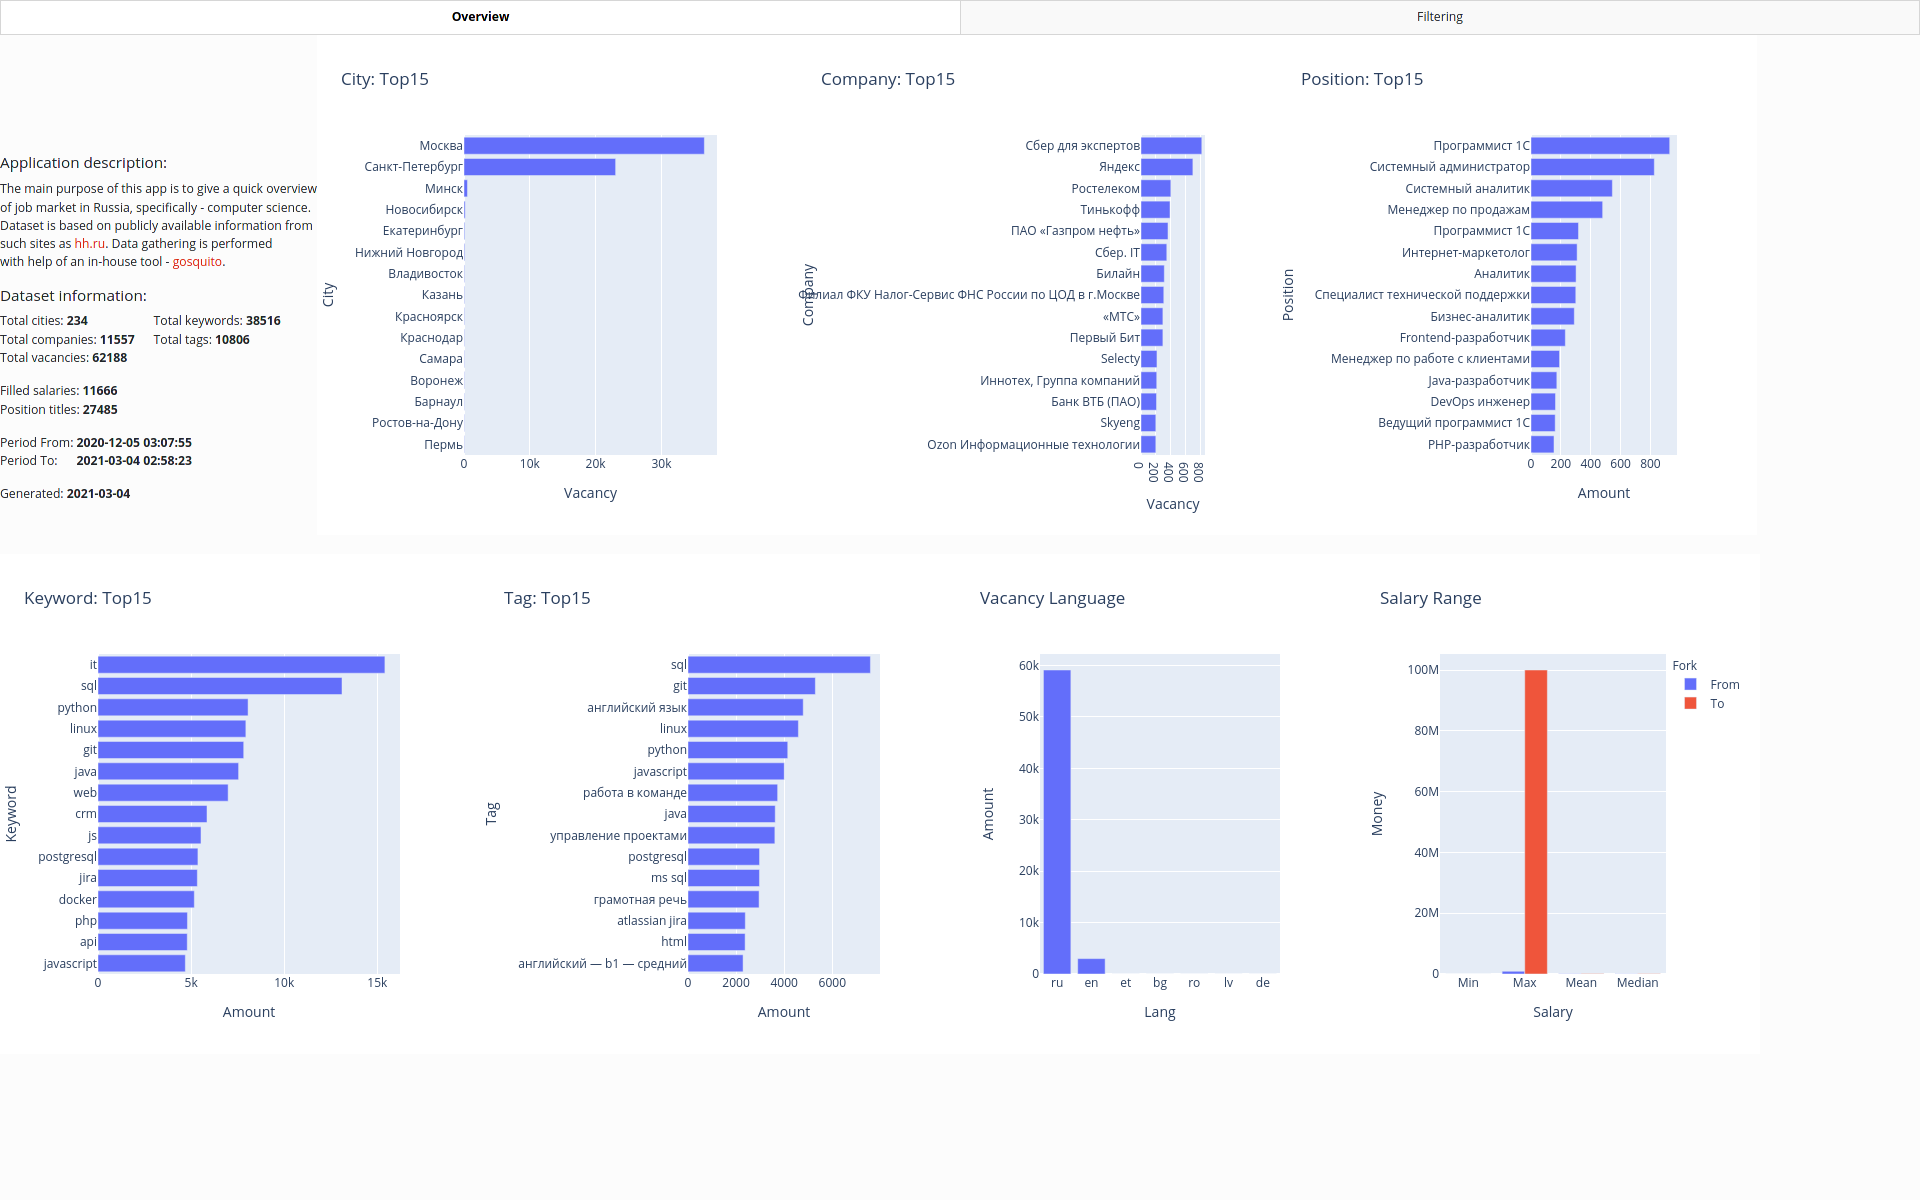
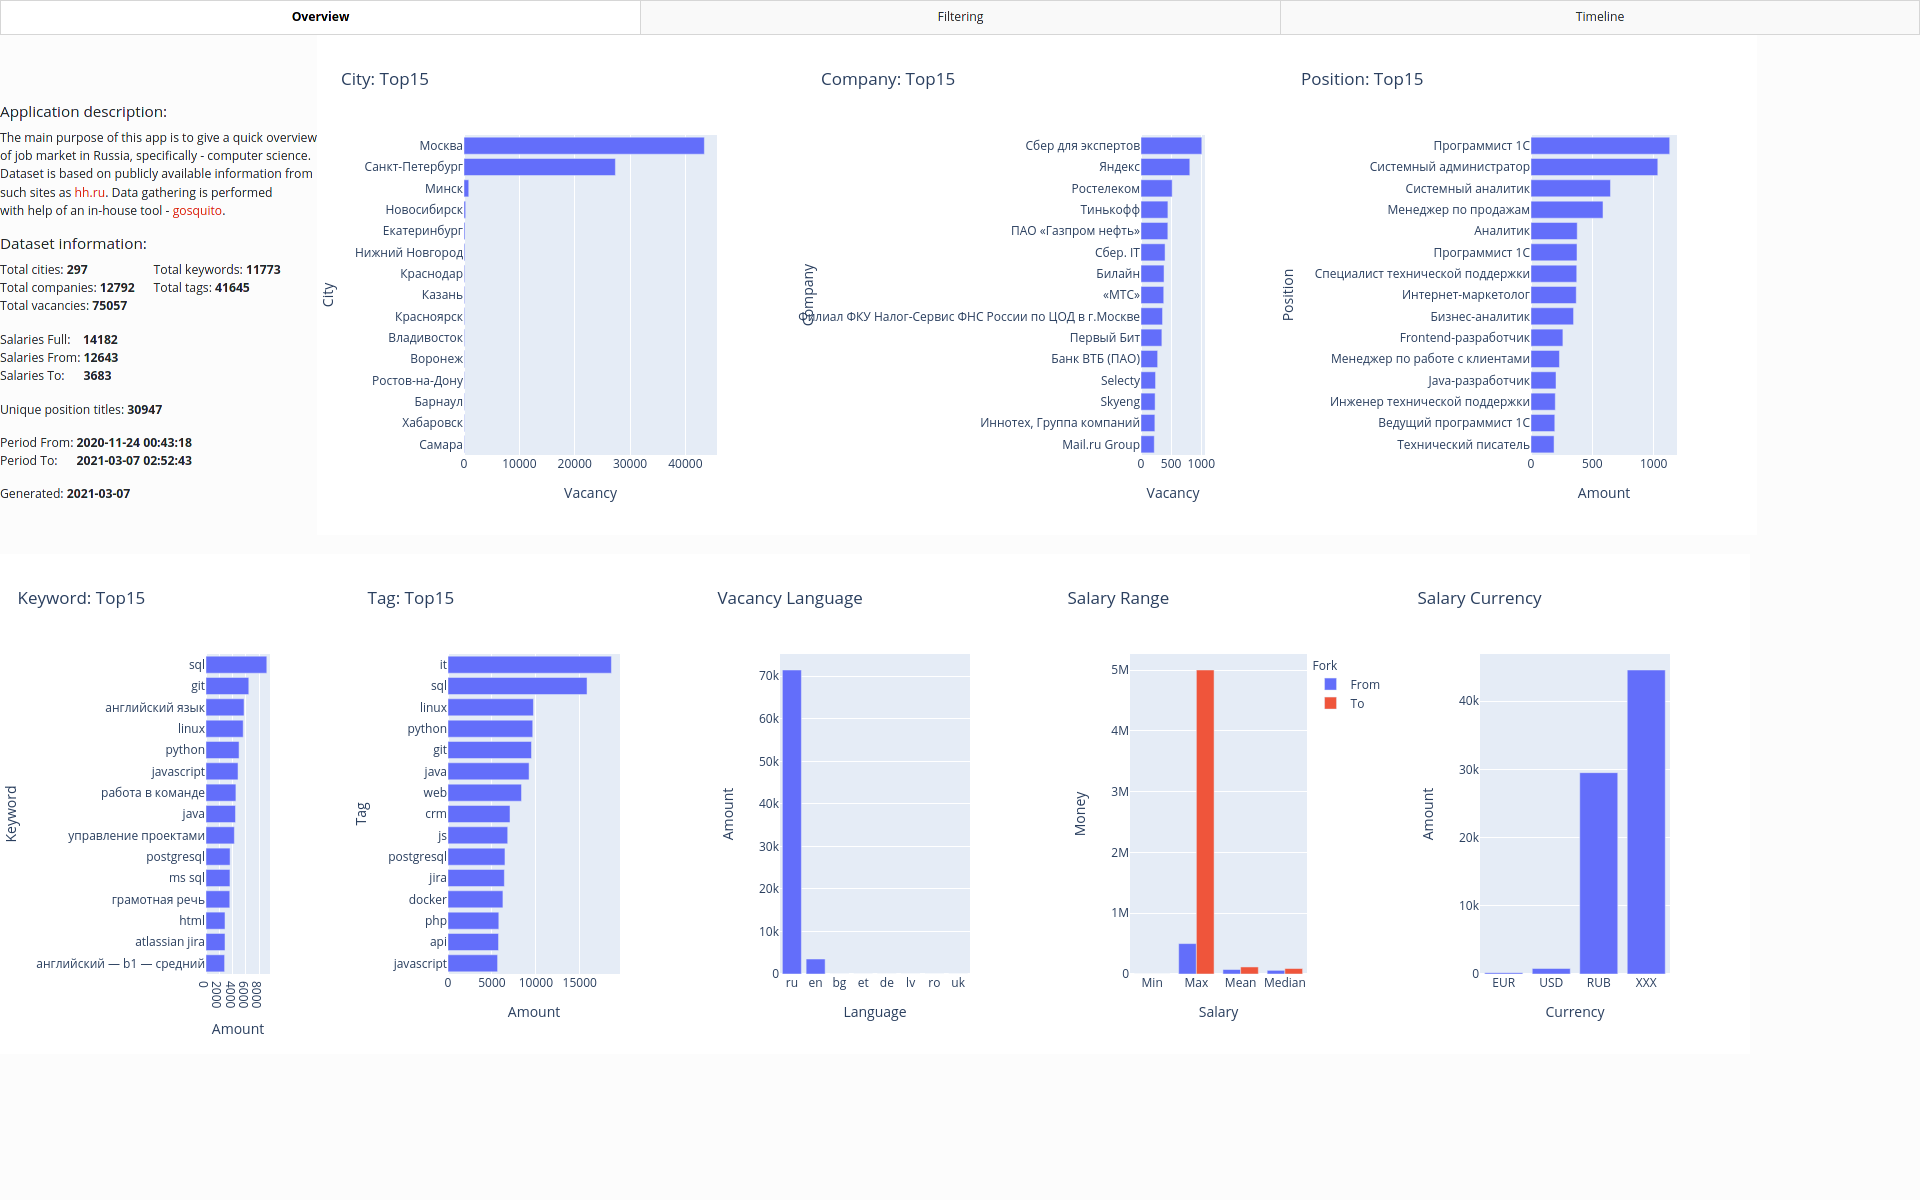
improve ui

diff --git a/lcn/__main__.py b/lcn/__main__.py
@@ -9,6 +9,8 @@ import re
 
 from dash.dependencies import Input, Output
 from datetime import datetime
+
+from plotly.graph_objs import Layout
 from zeep import Client
 
 
@@ -43,6 +45,8 @@ def get_top_horizontal_fig(data, limit, labels, title, height=500, width=480):
         width=width
     )
 
+    fig.update_xaxes(tickformat="d")
+
     return fig
 
 
@@ -56,6 +60,8 @@ def get_top_vertical_fig(data, labels, title, height=500, width=400):
         height=height,
         width=width
     )
+
+    fig.update_xaxes(tickformat="d")
 
     return fig
 
@@ -106,6 +112,8 @@ def get_salary_fig(data, height=500, width=400):
         height=height,
         width=width
     )
+
+    fig.update_xaxes(tickformat="d")
 
     return fig
 
@@ -171,6 +179,7 @@ def main():
         dcc.Tabs(id="tabs", value="tab1", children=[
             dcc.Tab(label="Overview", value="tab1", style=tab_style, selected_style=tab_selected_style),
             dcc.Tab(label="Filtering", value="tab2", style=tab_style, selected_style=tab_selected_style),
+            dcc.Tab(label="Timeline", value="tab3", style=tab_style, selected_style=tab_selected_style),
         ], style=tabs_style),
         html.Div(id='tabs-content')
     ])
@@ -183,7 +192,7 @@ def main():
                     html.Div(children=[
                         dcc.Markdown("""
                             ##### Application description: 
-                            The main purpose of this app is to give a quick overview  
+                            The main purpose of [this app](https://github.com/livelace/lazy-crow-nest) is to give a quick overview  
                             of job market in Russia, specifically - computer science.  
                             Dataset is based on publicly available information from  
                             such sites as [hh.ru](https://hh.ru). Data gathering is performed  
@@ -463,6 +472,72 @@ def main():
                 ])
             ])
 
+        elif tab == 'tab3':
+            return html.Div(children=[
+                dcc.Graph(
+                    id="tab2-timeline-year-graph",
+                    figure=get_top_vertical_fig(
+                        df["year"].value_counts(ascending=True),
+                        {"index": "Year", "y": "Amount"},
+                        "Per Year",
+                        width=500
+                    ),
+                    style=default_style
+                ),
+                dcc.Graph(
+                    id="tab2-timeline-month-graph",
+                    figure=get_top_vertical_fig(
+                        df["month"].value_counts(ascending=True),
+                        {"index": "Month", "y": "Amount"},
+                        "Per Month",
+                        width=500
+                    ),
+                    style=default_style
+                ),
+                dcc.Graph(
+                    id="tab2-timeline-day-graph",
+                    figure=get_top_vertical_fig(
+                        df["day"].value_counts(ascending=True),
+                        {"index": "Month Day", "y": "Amount"},
+                        "Per Day",
+                        width=500
+                    ),
+                    style=default_style
+                ),
+                dcc.Graph(
+                    id="tab2-timeline-weekday-graph",
+                    figure=get_top_vertical_fig(
+                        df["week_day"].value_counts(ascending=True),
+                        {"index": "Week Day", "y": "Amount"},
+                        "Per Week Day",
+                        width=500
+                    ),
+                    style=default_style
+                ),
+                dcc.Graph(
+                    id="tab2-timeline-hour-graph",
+                    figure=get_top_vertical_fig(
+                        df["hour"].value_counts(ascending=True),
+                        {"index": "Hour", "y": "Amount"},
+                        "Per Hour",
+                        width=500
+                    ),
+                    style=default_style
+                ),
+                dcc.Graph(
+                    id="tab2-timeline-minute-graph",
+                    figure=get_top_vertical_fig(
+                        df["minute"].value_counts(ascending=True),
+                        {"index": "Minute", "y": "Amount"},
+                        "Per Minute",
+                        width=500
+                    ),
+                    style=default_style
+                )
+            ])
+
+    # ---------------------------------------------------------------------------------
+    # Callback functions.
     @app.callback(
         [
             Output("tab2-city-graph", "figure"),
